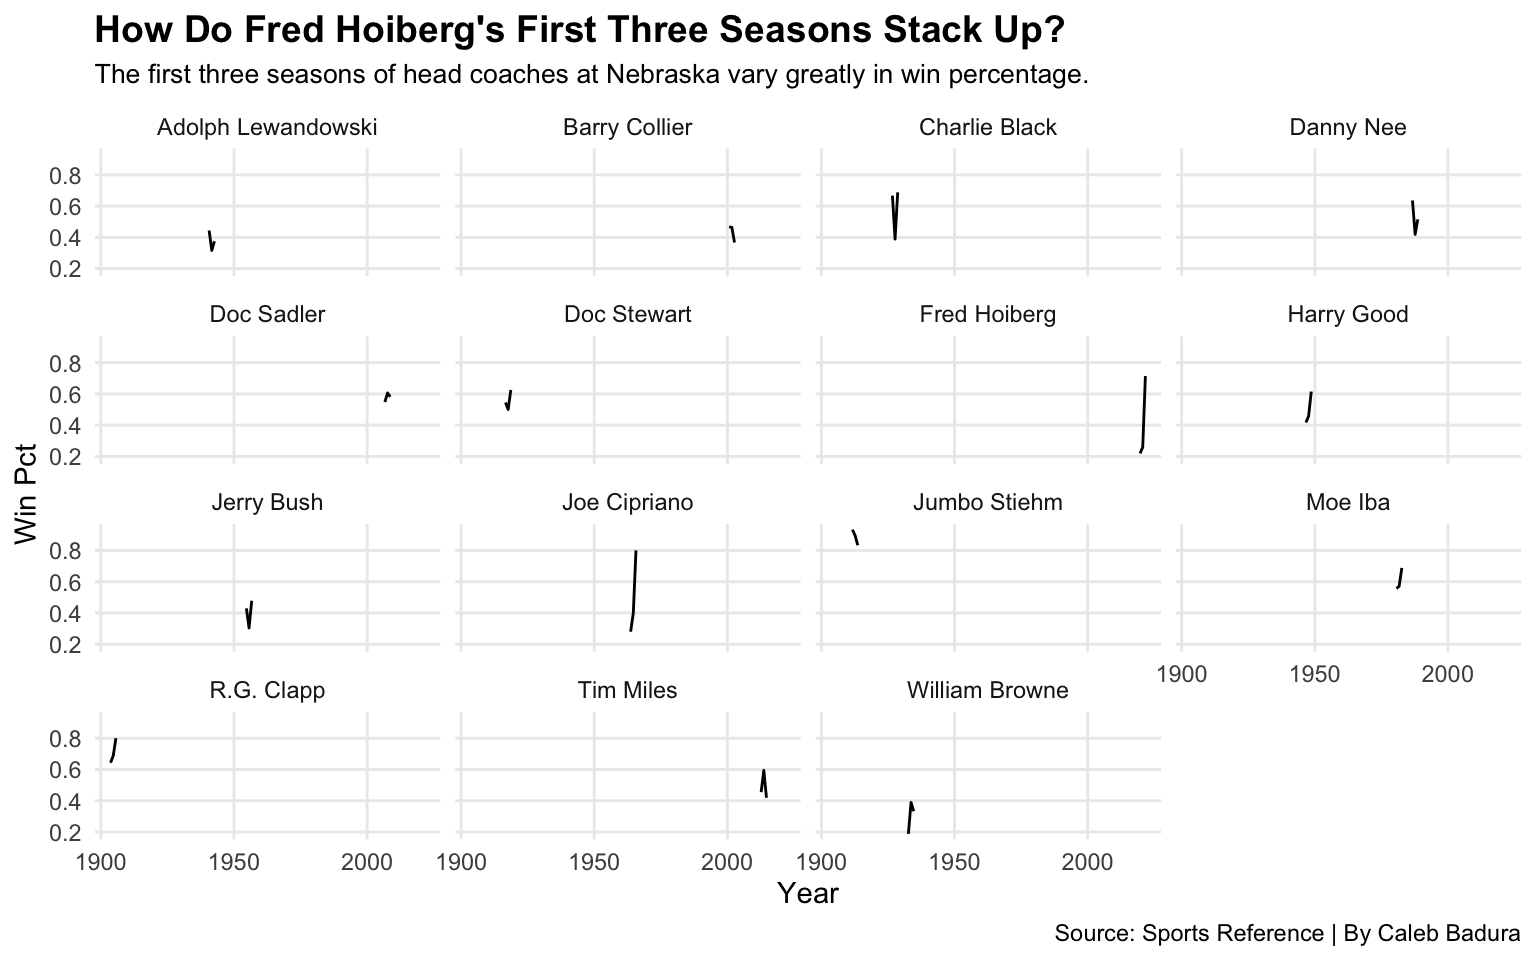
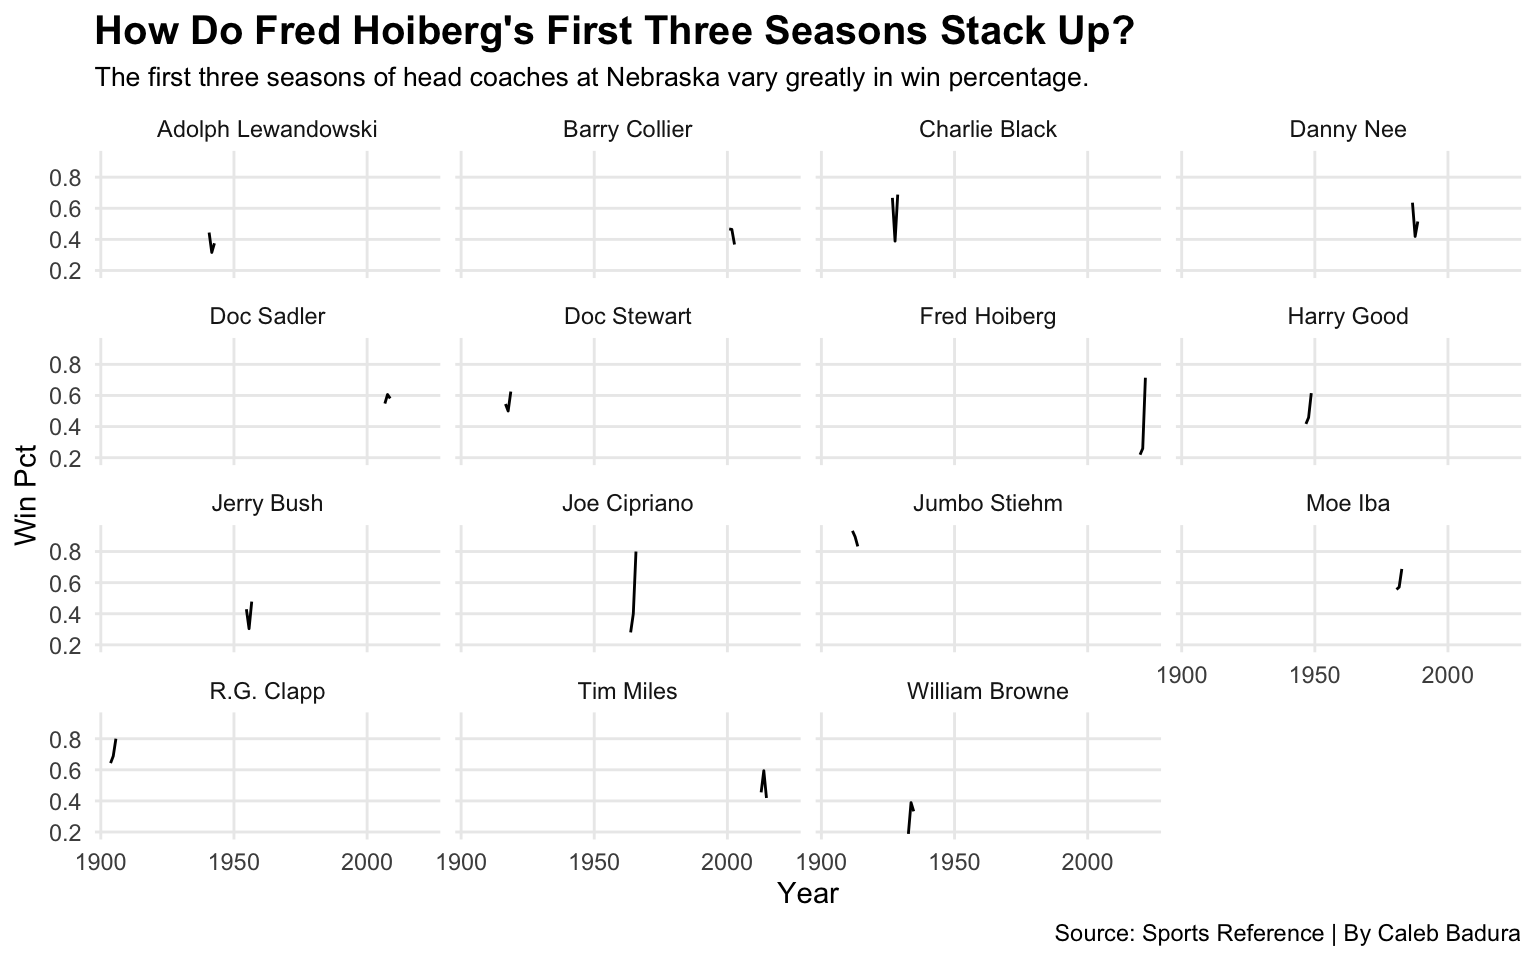
Hot Seats for Nebraska Coaches

diff --git a/2021/11/30/hot-seats-for-nebraska-coaches/index.html b/2021/11/30/hot-seats-for-nebraska-coaches/index.html
@@ -133,7 +133,7 @@ Frost’s win percentages over his four seasons at Nebraska have been quite disa
     ) + 
   theme_minimal() + 
   theme(
-    plot.title = element_text(size = 14, face = &quot;bold&quot;),
+    plot.title = element_text(size = 15, face = &quot;bold&quot;),
     axis.title = element_text(size = 11), 
     plot.subtitle = element_text(size=10), 
     panel.grid.minor = element_blank()
@@ -171,7 +171,9 @@ Coach Nee’s squad bounced back after his second season, while Coach Hoiberg’
 <pre class="r"><code>hoibergrecruiting &lt;- cbbrankings %&gt;%
   filter(SCHOOL == &quot;Nebraska&quot;)</code></pre>
 <p>With this data, I will be focusing on Nebraska’s rankings, which is why I created these two dataframes for specifically Frost and Hoiberg.</p>
-<pre class="r"><code>ggplot() + geom_line(data=hoibergrecruiting, aes(x=CLASS, y=RANK), color=&quot;red&quot;) + scale_y_reverse()+ 
+<pre class="r"><code>ggplot() + 
+  geom_line(data=hoibergrecruiting, aes(x=CLASS, y=RANK), color=&quot;red&quot;) + 
+  scale_y_reverse()+ 
   labs(
     x=&quot;Class&quot;, 
     y=&quot;Rank&quot;, 
@@ -189,7 +191,9 @@ Coach Nee’s squad bounced back after his second season, while Coach Hoiberg’
 <p><img src="http://calebbadura.github.io/2021/11/30/hot-seats-for-nebraska-coaches/index_files/figure-html/unnamed-chunk-16-1.png" width="672" />
 It took Fred Hoiberg only a couple seasons to secure the first five-star high school recruit in program history in Bryce McGowens. With that and a few other key signees, Nebrasketball landed a Top-25 recruiting class in 2021. Although Hoiberg’s record as a coach at Nebraska has been quite poor, this year’s recruiting class shows that Hoiberg is beginning to get his guys in. Although the Big Ten conference play this year may be a struggle, watch out for Nebrasketball to make a run.</p>
 <p>Next, let’s take a look at Scott Frost’s recruiting over his past few season while at Nebraska.</p>
-<pre class="r"><code>ggplot() + geom_line(data=frostrecruiting, aes(x=CLASS, y=RANK), color=&quot;red&quot;) + scale_y_reverse()+ 
+<pre class="r"><code>ggplot() + 
+  geom_line(data=frostrecruiting, aes(x=CLASS, y=RANK), color=&quot;red&quot;) +
+  scale_y_reverse()+ 
   labs(
     x=&quot;Class&quot;, 
     y=&quot;Rank&quot;, 
@@ -206,7 +210,7 @@ It took Fred Hoiberg only a couple seasons to secure the first five-star high sc
     )</code></pre>
 <p><img src="http://calebbadura.github.io/2021/11/30/hot-seats-for-nebraska-coaches/index_files/figure-html/unnamed-chunk-17-1.png" width="672" />
 Although Nebraska football has always been a force in college football recruiting, Scott Frost has vaulted them into the Top 20. Recent decline in the rankings over the past couple classes may not be a great trend for Frost and staff, but consistently being in company with the top teams in the country is a positive. Although, this graph and recruiting rankings show that recruiting may not be the issue for Nebraska football.</p>
-<p>The recent struggles of both of these coaches and their squads come as a bit of a surprise once one goes through this data. Experiencing losing seasons year after year with Top 25 recruiting classes is not a great trend. My theory for these struggles is that there may be a bit of bad luck, but also just growing pains and a bit stiffer competition. Coach Hoiberg and Coach Frost have had success at previous schools, but Big Ten play is a whole different monster. Recruiting and getting the right guys certainly takes time, which is why Husker fans need to take it easy.</p>
+<p>The recent struggles of both of these coaches and their squads come as a bit of a surprise once one goes through this data. Experiencing losing seasons year after year with Top-25 recruiting classes is not a great trend. My theory for these struggles is that there may be a bit of bad luck, but also just growing pains and a bit stiffer competition. Coach Hoiberg and Coach Frost have had success at previous schools, but Big Ten play is a whole different monster. Recruiting and getting the right guys certainly takes time, which is why Husker fans need to take it easy.</p>
 <p>Although, the coming seasons for both of these coaches will be a major indicator on their futures in Lincoln.</p>
 
     </div>
